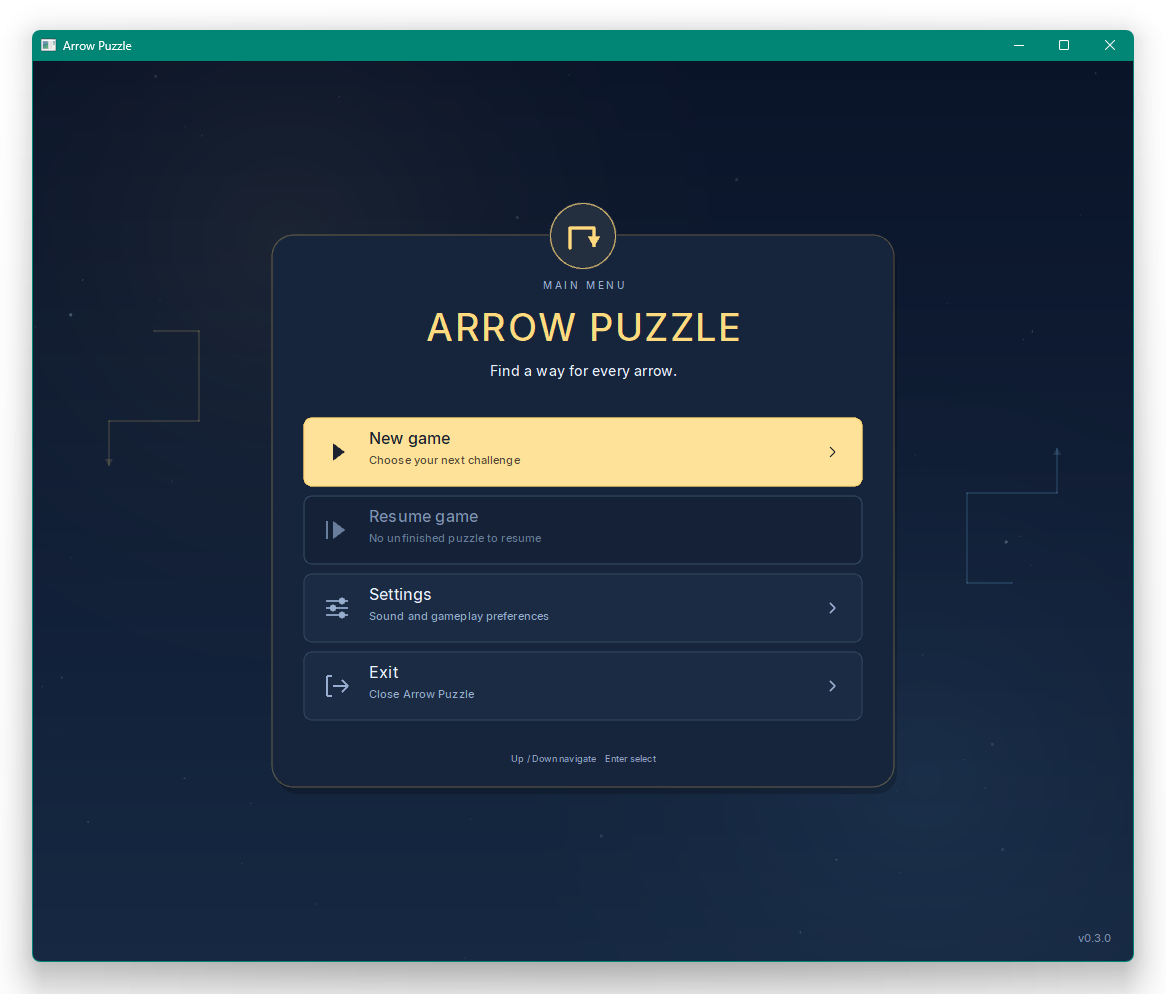
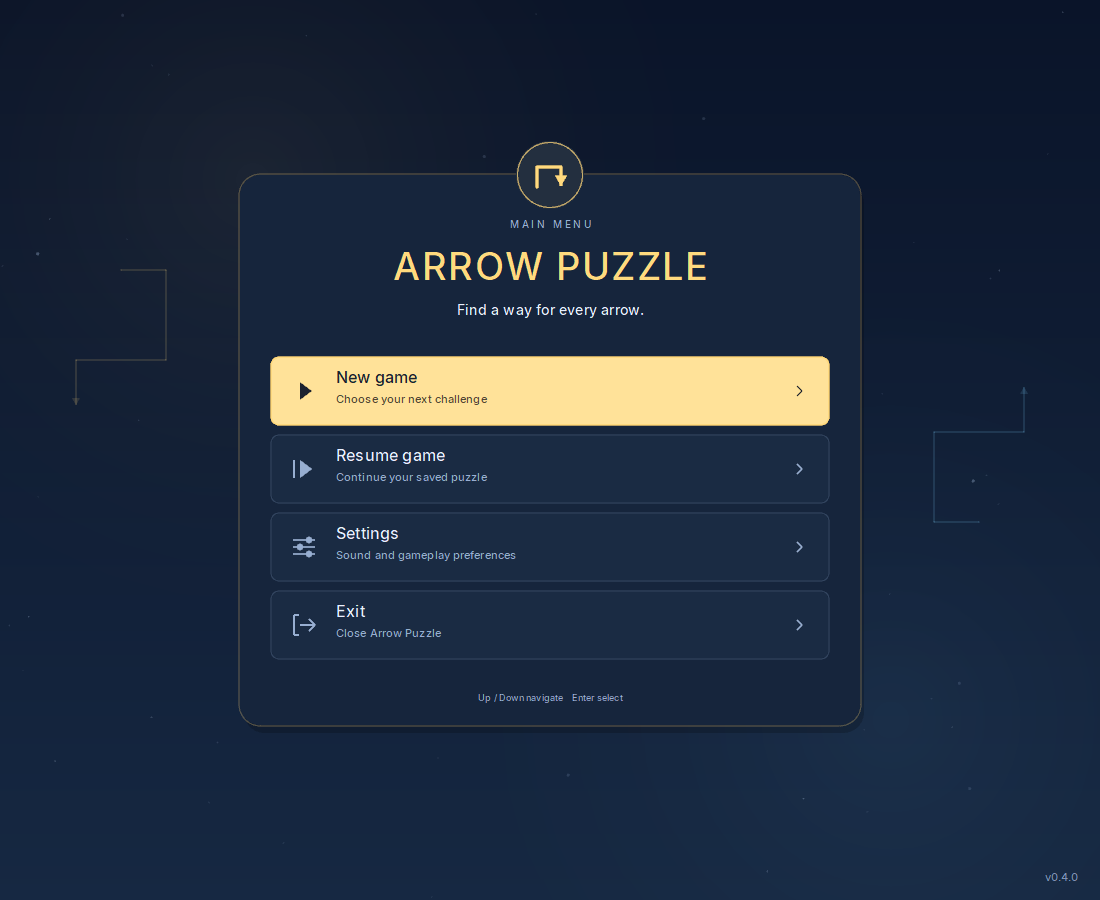
Prepare 0.4.0 release notes and screenshots

diff --git a/README.md b/README.md
@@ -5,8 +5,9 @@
 Arrow Puzzle is a minimalist desktop puzzle game about untangling a board of
 arrows. It is written in C++20 with raylib and currently targets Windows.
 
-Version **0.3.0** offers 20 x 20, 40 x 40, 80 x 80, and experimental 160 x 160
-generated boards, dark and light board themes, optional sounds, and animated
+Version **0.4.0** makes Very Hard generation faster, less memory-hungry, and more
+varied around the perimeter. It offers 20 x 20, 40 x 40, 80 x 80, and experimental
+160 x 160 boards, dark and light board themes, optional sounds, and animated
 result screens.
 Settings and unfinished games are saved beside the executable.
 
@@ -24,6 +25,10 @@ Settings and unfinished games are saved beside the executable.
 | :---: | :---: |
 | [![Sound, board theme, and gameplay settings](docs/screenshots/settings.png)](docs/screenshots/settings.png) | [![Victory screen with colourful fireworks](docs/screenshots/victory.png)](docs/screenshots/victory.png) |
 
+Very Hard (160 x 160), generated by the new 0.4.0 algorithm:
+
+[![Very Hard with varied perimeter arrows](docs/screenshots/very-hard.png)](docs/screenshots/very-hard.png)
+
 ## Download
 
 Download the latest Windows x64 build from
@@ -36,7 +41,7 @@ Release builds are compiled and tested by **GitHub Actions**. The ZIP includes
 build metadata and SHA-256 checksums are supplied with the download; the EXE
 and ZIP have GitHub build-provenance attestations. See the
 [release verification guide](docs/en/RELEASING.md#verifying-a-download).
-Changes since 0.2.0 are listed in the [changelog](CHANGELOG.md#030---2026-10-29).
+Changes since 0.3.0 are listed in the [changelog](CHANGELOG.md#040---2026-10-29).
 
 The current build is not digitally signed, so Windows SmartScreen may display
 an unknown-publisher warning.
@@ -137,12 +142,11 @@ The New game menu provides four board sizes:
 - Hard: 80 x 80
 - Very Hard: 160 x 160
 
-Very Hard is experimental. Development toward 0.4.0 replaces its large search
+Very Hard is experimental. Version 0.4.0 replaces its large search
 tables with bounded construction from multiple fronts, using up to four workers
 to compare eight candidates. It favors arrows connecting the perimeter to the
 interior while retaining 6..10 opening moves. The animated generation overlay
-remains responsive while candidates are compared. Released 0.3.0 uses the older
-eight-worker path cutter.
+remains responsive while candidates are compared.
 
 The Settings menu can prevent newly generated levels from using dynamic arrow
 loops and can disable life penalties for collisions between flying arrows.
@@ -288,6 +292,7 @@ assets/sounds/       Embedded game and firework sound sources
 cmake/               Font/audio embedding and build-version helpers
 src/Board.cpp        Board state, movement rules, and solution checks
 src/Generator.cpp    Constructive level generator and candidate scoring
+src/FrontierGenerator.cpp  Bounded Very Hard generation from both directions
 src/MotionKinematics.cpp  Independent accelerated movement calculations
 src/MotionResolver.cpp  Moving/static collision classification
 src/Persistence.cpp  Versioned settings and unfinished-game storage
@@ -321,16 +326,16 @@ cell. Simple, Middle and Hard use dynamic programming to cut it into arrows
 with a broad length distribution. A cut is accepted only when its exit
 dependencies preserve a constructive solution order.
 
-In development toward 0.4.0, Very Hard removes escapable fragments from either
+Since 0.4.0, Very Hard removes escapable fragments from either
 direction and records that removal order as the solution. Compact per-cell
 state replaces the large count/length tables. Short arrows can occupy at most
 20% of the perimeter; at least 75% of it must belong to arrows entering the
 interior. Loopless boards meet the same quality limits. See the
-[generator guide](docs/en/GENERATOR.md#11-large-board-frontier-construction-development-toward-040)
+[generator guide](docs/en/GENERATOR.md#11-large-board-frontier-construction-040)
 for the bounded search and reproducible benchmark.
 
-For the path cutter, ray exits and dynamic self-passes are cached once per opened cycle. Large
-boards use exact range-based reachability and reconstruction instead of dense
+For the path cutter, ray exits and dynamic self-passes are cached once per
+opened cycle. Large boards use exact range-based reachability and reconstruction instead of dense
 area-by-arrow-count tables, while dependency choices are updated through a
 reverse graph. Independent candidate attempts run in parallel and are compared
 in deterministic order.

diff --git a/docs/ru/PROJECT_GUIDE.md b/docs/ru/PROJECT_GUIDE.md
@@ -2,7 +2,7 @@
 
 [English](../en/PROJECT_GUIDE.md) | **Русский**
 
-Документ синхронизирован с версией 0.3.0 на 29 октября 2026 года. Он
+Документ синхронизирован с версией 0.4.0 на 29 октября 2026 года. Он
 предназначен для быстрого погружения в устройство и разработку проекта. За
 пользовательским описанием игры следует обращаться к корневым `README.md` и
 `README_RU.md`.
@@ -76,6 +76,7 @@ include/arrow/             Публичный интерфейс ядра
 src/
   Board.cpp                Инварианты Board, canExit(), solveGreedily()
   Generator.cpp            Конструктивная генерация и оценка кандидатов
+  FrontierGenerator.cpp    Ограниченное построение больших полей в обоих направлениях
   MotionKinematics.cpp     Чистые численные функции движения
   MotionResolver.cpp       Чистая классификация коллизий
   Persistence.cpp          Версионированные текстовые форматы и атомарная запись
@@ -290,7 +291,7 @@ $env:ARROWPUZZLE_DIFFICULTY = "2"
 - `Game.cpp` — крупный монолит. Вынос UI, рендера и simulation controller в
   отдельные модули упростит изменения, но рефакторинг должен идти маленькими
   тестируемыми шагами.
-- В разработке к 0.4.0 Very Hard использует ограниченное построение от фронтов
+- Начиная с 0.4.0 Very Hard использует ограниченное построение от фронтов
   в максимум четырёх потоках. В 0.3.0 были значительные пики времени и памяти;
   текущие ограничения и инструмент замеров описаны в руководстве генератора.
 - Генератор требует чётные размеры поля.
@@ -304,7 +305,7 @@ $env:ARROWPUZZLE_DIFFICULTY = "2"
 - raylib 5.5: zlib/libpng, `THIRD_PARTY_NOTICES.md`.
 - Inter 4.1: SIL OFL 1.1, `assets/fonts/Inter-LICENSE.txt`.
 
-Версия проекта в CMake — `0.3.0`; опубликованные релизы следует проверять в
+Версия проекта в CMake — `0.4.0`; опубликованные релизы следует проверять в
 GitHub Releases. Релизный ZIP содержит автономный `ArrowPuzzle.exe`, оба README,
 changelog, документацию со скриншотами и лицензии. Перед публикацией нужны
 чистая Release-сборка, полный `ctest`, запуск распакованного EXE и SHA-256.

diff --git a/ai-docs/status-and-decisions.md b/ai-docs/status-and-decisions.md
@@ -1,6 +1,6 @@
 # Status, accepted decisions, and open work
 
-Snapshot: 2026-10-29, including unreleased generator work toward 0.4.0. Check
+Snapshot: 2026-10-29, preparing the user-approved 0.4.0 release. Check
 `git status`, recent history, and [CHANGELOG.md](../CHANGELOG.md) before treating
 this as current state.
 
@@ -24,7 +24,9 @@ published 0.3.0 binary or already tested by a new Actions release run.
 The development Very Hard generator now constructs arrows from multiple
 fronts in both directions, with bounded search and explicit perimeter-quality
 limits. Local Release tests and benchmarks passed; see
-[generator evidence](generator-0.4.md). This also remains unreleased.
+[generator evidence](generator-0.4.md). The user accepted it and authorized the
+0.4.0 release, together with the delayed Game Over fix and bilingual docs.
+Publication is pending the tagged Actions build and artifact verification.
 
 The last supplied development EXE was in `build/windows-msvc/arrow_puzzle.exe`.
 Its existence/version is not guaranteed on another checkout. Rebuild to deliver
@@ -55,11 +57,11 @@ preserve the performance design, not a current benchmark or a diagnosed driver b
 
 - No active implementation task is assigned by this roadmap. Work on the live
   user's request; do not silently implement backlog items.
-- The Game Over delay is an unreleased change relative to 0.3.0. A future release
-  must deliberately choose its version and include the new changelog entry.
+- The Game Over delay and frontier generator are included in the 0.4.0 release
+  preparation. Record verified tagged build and publication evidence afterward.
 - Game.cpp remains large; refactor only in scoped steps that preserve event
   ordering, rendering invalidation, and testability.
-- Very Hard now uses bounded frontier construction in development toward 0.4.0;
+- Very Hard now uses bounded frontier construction for 0.4.0;
   see [generator work](generator-0.4.md) for the method, measurements and limits.
   This is separate from the earlier rendering work and is not in released 0.3.0.
 - Linux/Android are unverified; even dimensions are a generator restriction.

diff --git a/docs/en/PROJECT_GUIDE.md b/docs/en/PROJECT_GUIDE.md
@@ -2,7 +2,7 @@
 
 **English** | [Русский](../ru/PROJECT_GUIDE.md)
 
-This guide was reviewed for version 0.3.0 on 2026-10-29. It introduces the
+This guide was reviewed for version 0.4.0 on 2026-10-29. It introduces the
 implementation and development workflow. User-facing information is in the
 root `README.md` and `README_RU.md`.
 
@@ -71,6 +71,7 @@ include/arrow/             Public core interfaces
 src/
   Board.cpp                Geometry invariants, canExit(), solveGreedily()
   Generator.cpp            Constructive generation and candidate scoring
+  FrontierGenerator.cpp    Bounded large-board construction in both directions
   MotionKinematics.cpp     Pure numerical motion functions
   MotionResolver.cpp       Pure collision classification
   Persistence.cpp          Versioned text formats and atomic replacement
@@ -281,8 +282,8 @@ After editing:
 
 - Game.cpp is a large controller. Extract UI, rendering, or simulation modules
   in small testable steps rather than an unrelated rewrite.
-- Very Hard uses bounded frontier construction with up to four workers in
-  development toward 0.4.0. The 0.3.0 generator had substantial time/memory
+- Very Hard uses bounded frontier construction with up to four workers since
+  0.4.0. The 0.3.0 generator had substantial time/memory
   spikes. See the generator guide for current limits and the benchmark tool.
 - The generator needs even board dimensions.
 - Linux and Android are not built or verified in CI.
@@ -295,7 +296,7 @@ After editing:
 - raylib 5.5: zlib/libpng, `THIRD_PARTY_NOTICES.md`.
 - Inter 4.1: SIL OFL 1.1, `assets/fonts/Inter-LICENSE.txt`.
 
-The CMake project version is 0.3.0; check GitHub Releases for published versions.
+The CMake project version is 0.4.0; check GitHub Releases for published versions.
 A release ZIP contains standalone ArrowPuzzle.exe, both READMEs, changelog,
 documentation/screenshots, and licenses. Publication requires a clean Release
 build, full CTest, successful unpacked startup, and SHA-256 checks.

diff --git a/CHANGELOG.md b/CHANGELOG.md
@@ -7,16 +7,23 @@ and this project follows [Semantic Versioning](https://semver.org/spec/v2.0.0.ht
 
 ## [Unreleased]
 
+## [0.4.0] - 2026-10-29
+
+### Added
+
+- A reproducible generator benchmark with separate generation timing, peak
+  working set, border metrics, geometry hashes, and solution verification.
+- A Very Hard screenshot showing the new generator, plus refreshed menu
+  screenshots for 0.4.0.
+
 ### Changed
 
-- Reworked Very Hard generation for 0.4.0 development: construct solvable arrows
+- Reworked Very Hard generation: construct solvable arrows
   from both ends of available maze fragments, with bounded retries and at most
   four workers instead of large interval/count tables. Border arrows now mostly
   continue into the interior, with enforced length diversity, 6..10 opening
   moves, and the same quality limits when arrow loops are disabled. Smaller
   presets retain their existing generator.
-- Added a reproducible generator benchmark with separate generation timing,
-  peak working set, border metrics, geometry hashes, and solution verification.
 - Organized technical documentation into matching English and Russian editions
   under `docs/en` and `docs/ru`, with language switches, shared screenshots, and
   updated links from the main READMEs, agent roadmap, and release workflow.
@@ -169,7 +176,8 @@ and this project follows [Semantic Versioning](https://semver.org/spec/v2.0.0.ht
 - Allowed an armed mouse click to be cancelled by releasing away from the
   originally pressed arrow.
 
-[Unreleased]: https://github.com/gugglegum/arrow_puzzle_game/compare/v0.3.0...HEAD
+[Unreleased]: https://github.com/gugglegum/arrow_puzzle_game/compare/v0.4.0...HEAD
+[0.4.0]: https://github.com/gugglegum/arrow_puzzle_game/compare/v0.3.0...v0.4.0
 [0.3.0]: https://github.com/gugglegum/arrow_puzzle_game/compare/v0.2.0...v0.3.0
 [0.2.0]: https://github.com/gugglegum/arrow_puzzle_game/compare/v0.1.0...v0.2.0
 [0.1.0]: https://github.com/gugglegum/arrow_puzzle_game/releases/tag/v0.1.0

diff --git a/docs/en/RELEASING.md b/docs/en/RELEASING.md
@@ -17,12 +17,12 @@ cmake -S . -B build/release-preview -G Ninja `
     -DCMAKE_BUILD_TYPE=Release -DARROWPUZZLE_RELEASE_PREVIEW=ON
 cmake --build build/release-preview --parallel 2
 ctest --test-dir build/release-preview --output-on-failure
-.\tools\package-windows.ps1 -Version 0.3.0 `
+.\tools\package-windows.ps1 -Version 0.4.0 `
     -BuildDirectory build/release-preview -OutputDirectory out/release-preview
 ```
 
 `ARROWPUZZLE_RELEASE_PREVIEW` displays the CMake project version (for example,
-`v0.3.0`) without creating or moving Git tags. It is off by default, so ordinary
+`v0.4.0`) without creating or moving Git tags. It is off by default, so ordinary
 builds still identify themselves using the last release tag and commit count.
 GitHub Actions does not enable it: a tagged Actions build gets its version from
 the tag. A local preview has no GitHub provenance attestation; its
@@ -37,7 +37,7 @@ then use its contents for the GitHub release description.
 1. Finish the changelog and documentation, then commit and push the intended
    release source, including the workflow. Check that the tag version matches
    `project(... VERSION ...)` in `CMakeLists.txt`.
-2. Create and push a stable release tag such as `v0.3.0` on that commit.
+2. Create and push a stable release tag such as `v0.4.0` on that commit.
 3. Open **Actions → Windows release** and wait for the build and tests.
 4. Review the generated draft under **Releases**, add the corresponding
    changelog entry to its build-provenance notes, and publish it.
@@ -74,7 +74,7 @@ With a recent [GitHub CLI](https://cli.github.com/), verify the ZIP before
 extracting it (replace the filename with the downloaded version):
 
 ```powershell
-gh attestation verify .\ArrowPuzzle-0.3.0-windows-x64.zip `
+gh attestation verify .\ArrowPuzzle-0.4.0-windows-x64.zip `
     --repo gugglegum/arrow_puzzle_game `
     --signer-workflow gugglegum/arrow_puzzle_game/.github/workflows/release.yml `
     --deny-self-hosted-runners

diff --git a/ai-docs/generator-0.4.md b/ai-docs/generator-0.4.md
@@ -1,6 +1,7 @@
 # Very Hard generator work for 0.4.0
 
-Status: implemented in development, 2026-10-29; not published as 0.4.0.
+Status: accepted by the user on 2026-10-29; release 0.4.0 authorized and being
+prepared. See [release history](release-history.md) for verified publication.
 The previous generator source was unchanged between released `52182f1` and
 the starting code snapshot `955af41`. Preserve the existing unrelated fatal
 collision delay and bilingual documentation changes when publishing this work.
@@ -30,8 +31,8 @@ collision delay and bilingual documentation changes when publishing this work.
   even lengths. The preset's 960 option remains a legal upper bound, not a
   promised generated length. Typical new boards contain more arrows than
   0.3.0: roughly 3.3k..3.7k rather than the old fixed 2,844. More medium and long
-  threads replace much of the short-arrow population; assess play feel with
-  the user before a release rather than claiming subjective fun is proven.
+  threads replace much of the short-arrow population. The user accepted the
+  resulting generator and requested the 0.4.0 release.
 
 Algorithm details and benchmark commands live in the mirrored
 [English](../docs/en/GENERATOR.md) and [Russian](../docs/ru/GENERATOR.md) guides.
@@ -93,5 +94,6 @@ these are not a dedicated steady-state idle-memory benchmark.
 - The 200-board run is a measured sample, not a proof that every seed succeeds.
   Work budgets and quality limits remain fixed; an exhausted seed returns the
   existing explicit error/retry UI. Linux/Android remain unverified.
-- A source push is not a release. CMake/release tags remain 0.3.0 until the user
-  authorizes preparation/publication of the next release.
+- A source push is not a release. The user authorized preparation, tag creation
+  and the GitHub release build for 0.4.0; record actual build/publication evidence
+  in release history after verification.

diff --git a/docs/ru/GENERATOR.md b/docs/ru/GENERATOR.md
@@ -36,7 +36,7 @@ struct GeneratorOptions {
 ## 2. Общая схема
 
 Описанное ниже разрезание пути сохранено для Simple, Middle, Hard и специальных
-ограничений длины. В разработке к 0.4.0 поля с обеими сторонами от 128 клеток,
+ограничений длины. Начиная с 0.4.0 поля с обеими сторонами от 128 клеток,
 минимальной длиной 2 и максимальной не меньше 30 используют построение от
 доступных фронтов; см. раздел 11. Для узких нестандартных полей сохранено
 разрезание пути. Геометрия сохранённых игр не меняется.
@@ -222,7 +222,7 @@ DP/диапазонная достижимость числа стрелок
 - fallback на простой serpentine board;
 - полный перебор площади × числа стрелок на 160 x 160 и крупнее.
 
-## 11. Построение большого поля от фронтов (разработка к 0.4.0)
+## 11. Построение большого поля от фронтов (0.4.0)
 
 Случайное макродерево по-прежнему задаёт извилистый гамильтонов цикл. Однако
 генератору больше не нужно следовать одному общему направлению или решать

diff --git a/docs/en/GENERATOR.md b/docs/en/GENERATOR.md
@@ -36,7 +36,7 @@ There is deliberately no simplified fallback level.
 ## 2. Overall pipeline
 
 The path-cutting pipeline below remains in use for Simple, Middle, Hard, and
-custom length constraints. Development toward 0.4.0 uses frontier construction
+custom length constraints. Since 0.4.0, the generator uses frontier construction
 for boards with both sides at least 128 cells, minimum length 2, and maximum
 length at least 30. Narrow custom boards retain the path cutter. See section
 11. Saved games retain their geometry across this change.
@@ -216,7 +216,7 @@ Particularly risky changes include:
 - falling back to a simple serpentine board;
 - exhaustive area-by-arrow-count work on 160 x 160 and larger boards.
 
-## 11. Large-board frontier construction (development toward 0.4.0)
+## 11. Large-board frontier construction (0.4.0)
 
 The random macro-tree still supplies a maze-like Hamiltonian cycle, but the
 generator no longer has to follow one global orientation or solve a giant
